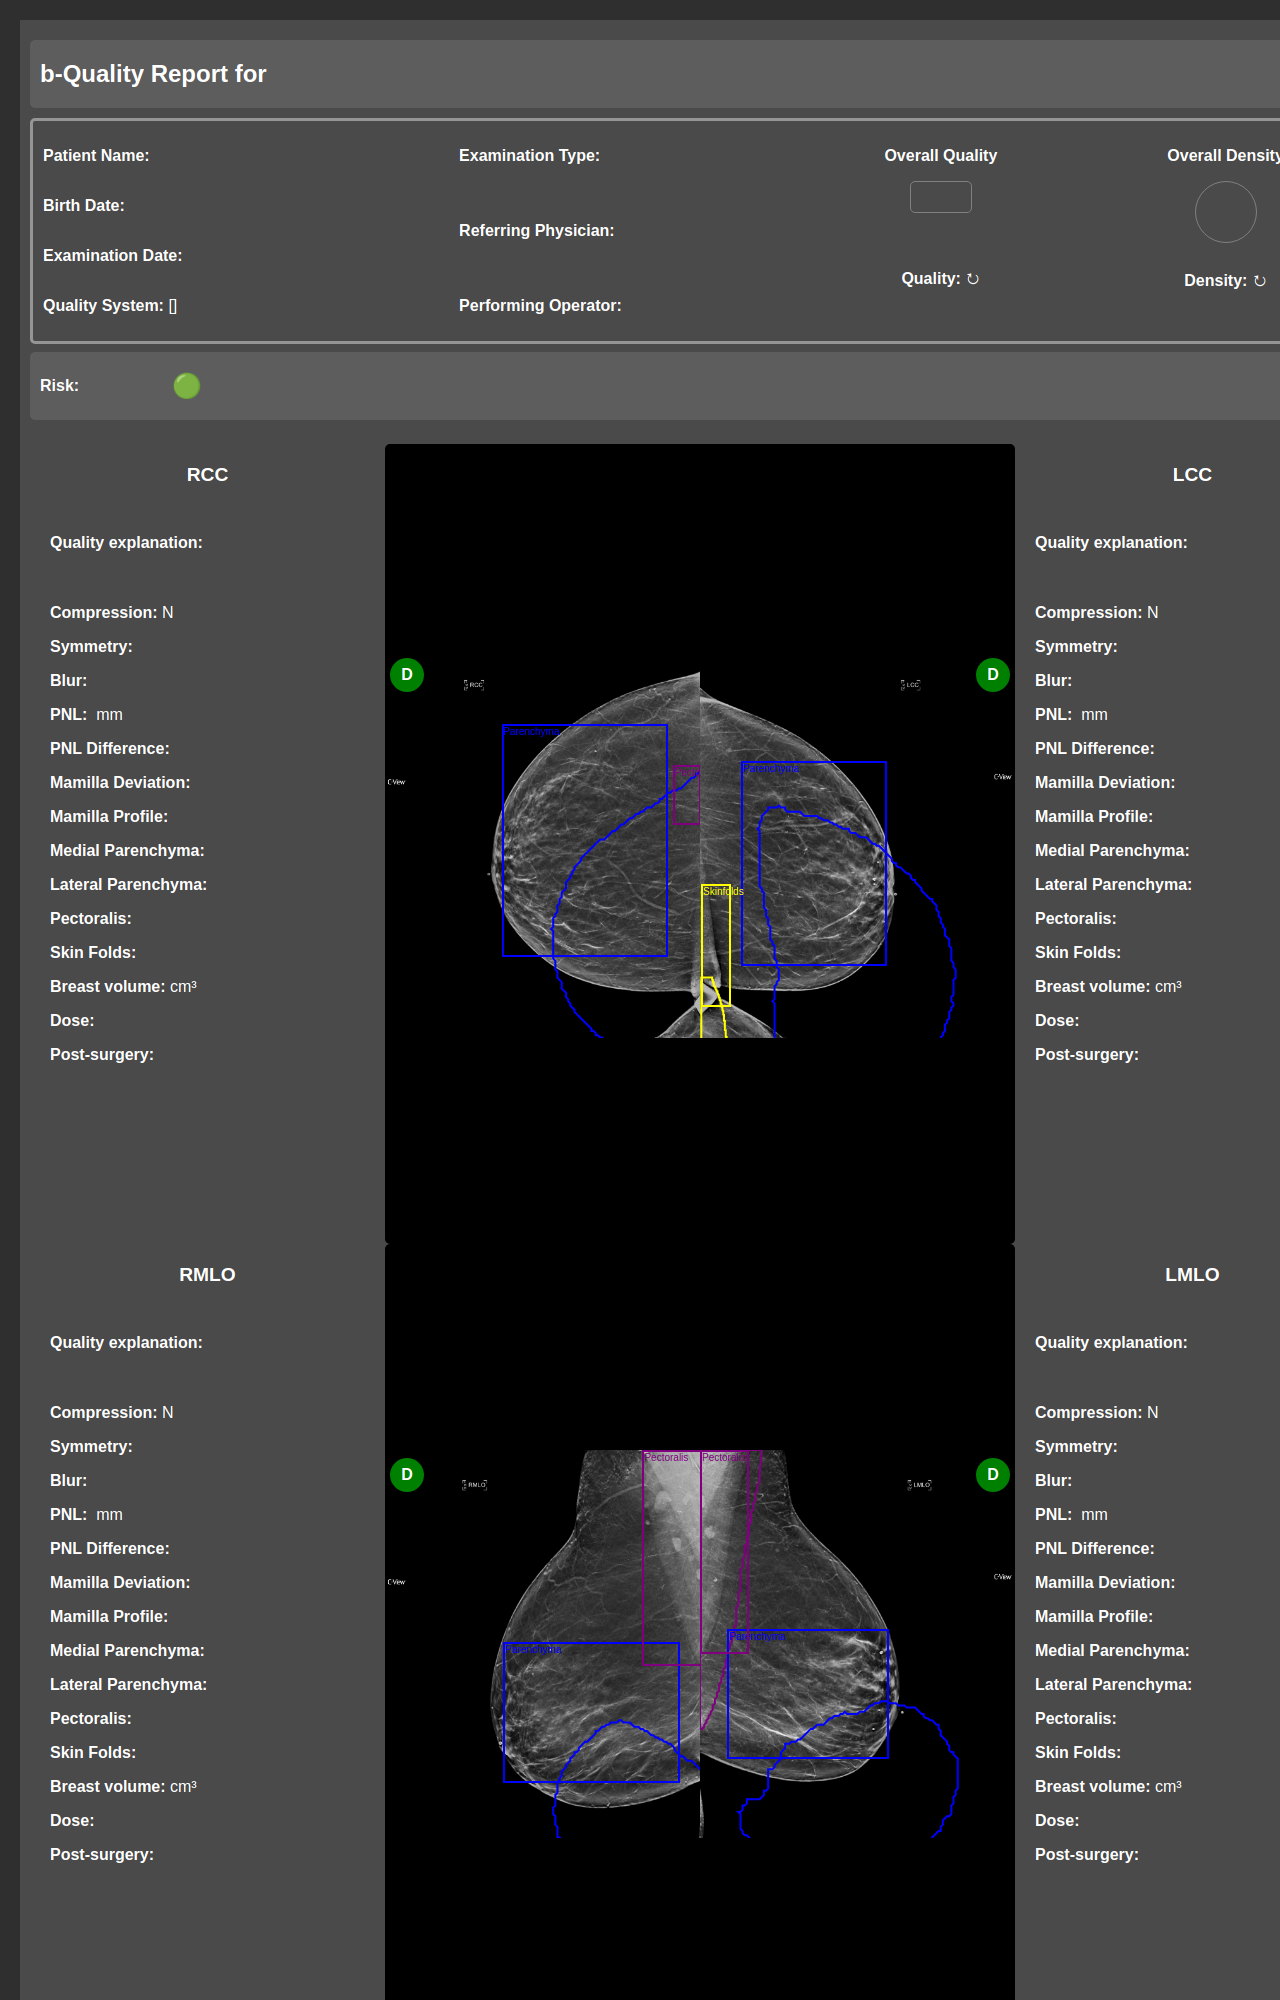
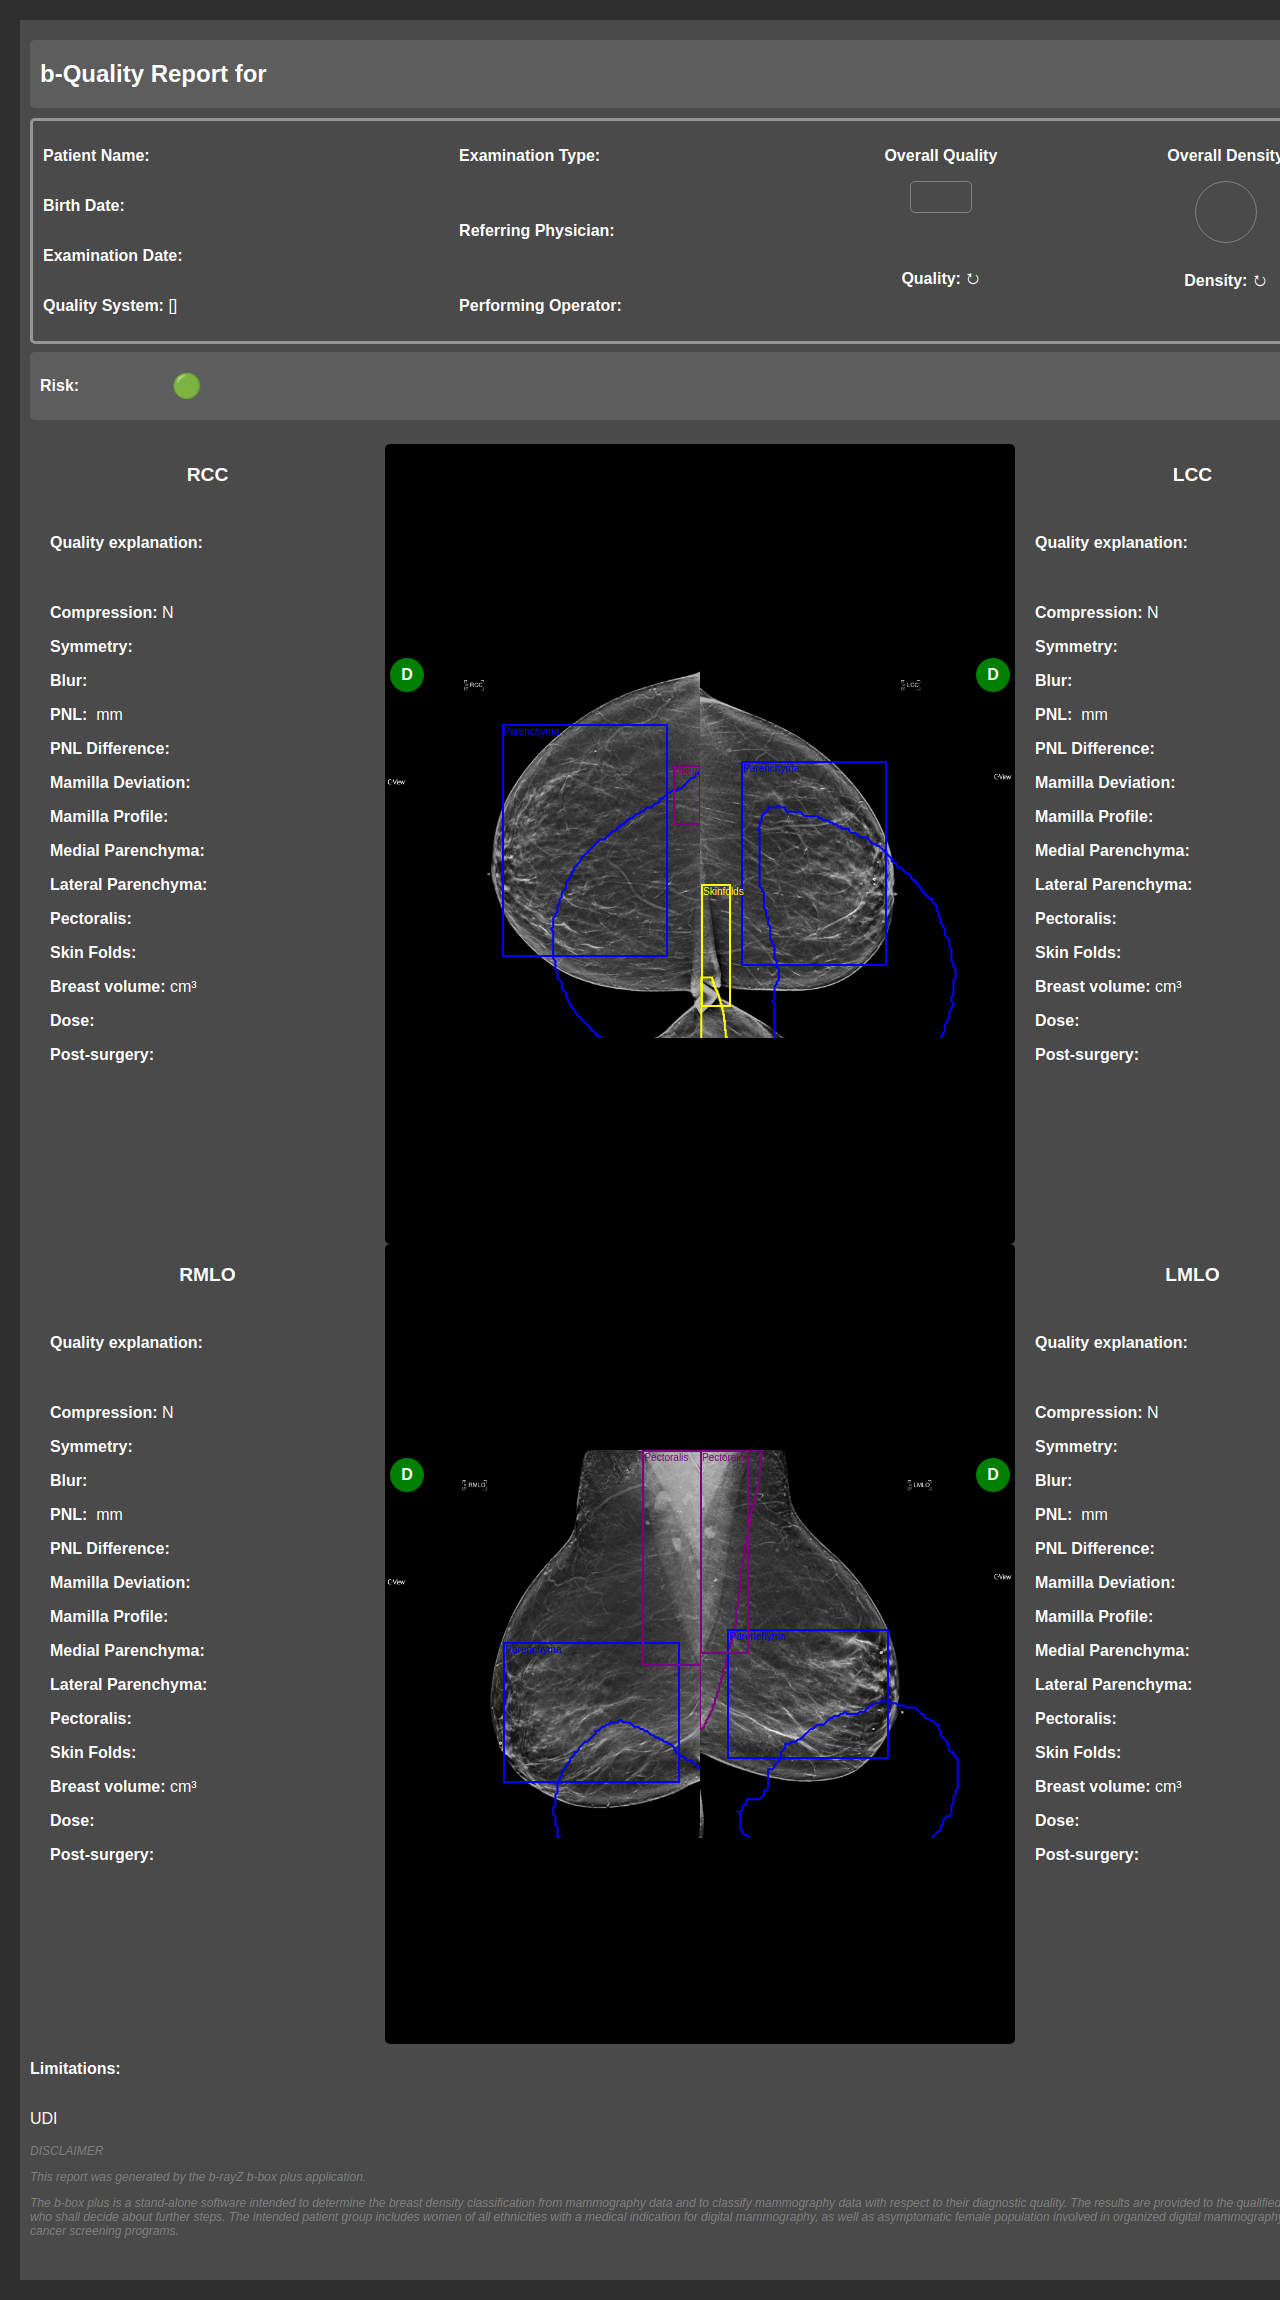
fix html2img height

diff --git a/my_script.py b/my_script.py
@@ -515,8 +515,7 @@ def generate_image_html2image(template_name, output_file_name, variables):
     hti.output_path = os.getcwd()
 
     # Generate the image
-    hti.screenshot(html_str=html_string, save_as=output_file_name, size=(1280, 2000))
-
+    hti.screenshot(html_str=html_string, save_as=output_file_name, size=(1280, 2300))  
     return send_file(output_file_name, as_attachment=True)
 
 # Quality HTML2Image Route
